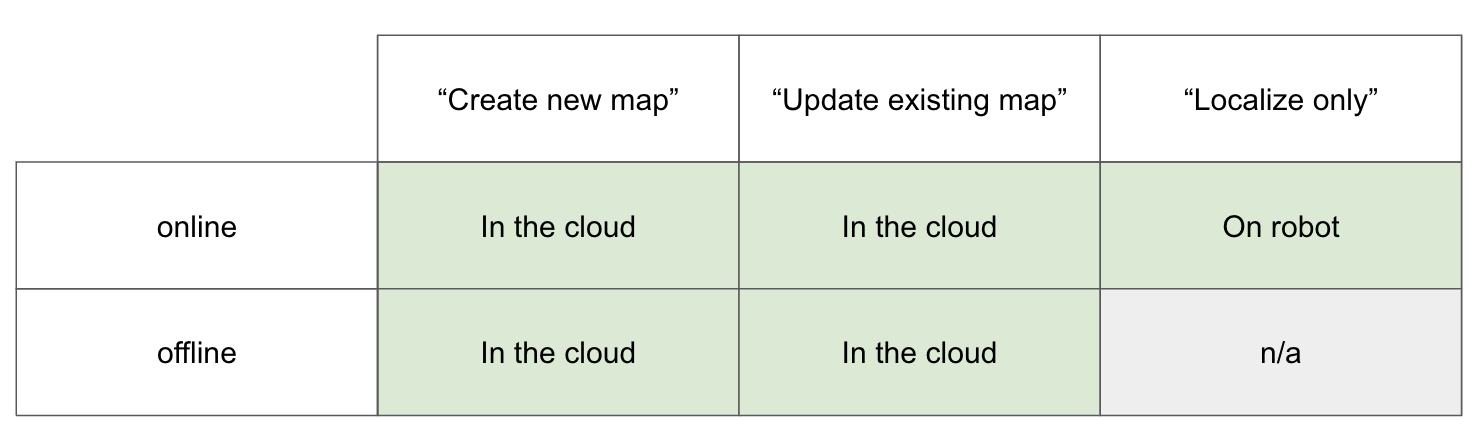
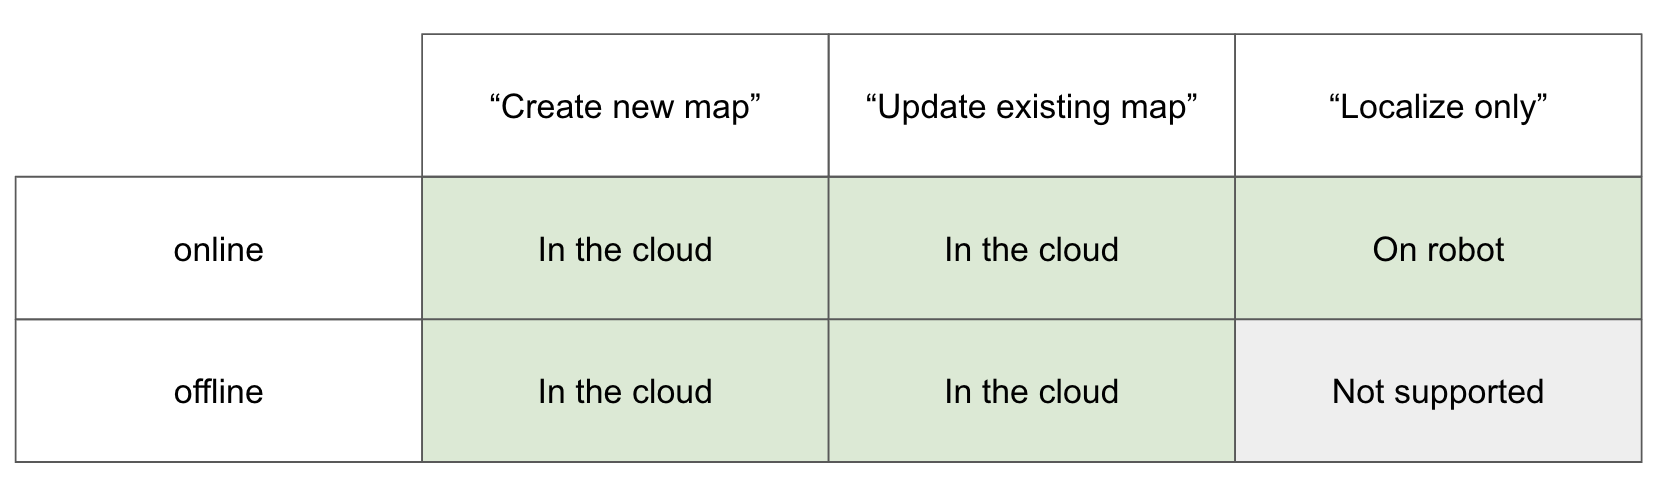
shorten the text

diff --git a/docs/services/slam/cartographer/_index.md b/docs/services/slam/cartographer/_index.md
@@ -11,19 +11,11 @@ aliases:
 # SMEs: Kat, Jeremy, John, Kim, Esha, Tess
 ---
 
-[The Cartographer Project](https://github.com/cartographer-project) is a C++ library that takes as input 2D or 3D LiDAR data, and optionally inertial measurement unit (IMU) data and/or odometry data, from a robot and produces as output a dense SLAM map and the robot's trajectory within the map.
+[The Cartographer Project](https://github.com/cartographer-project) is a C++ library that performs dense SLAM using 2D or 3D LiDAR data and optionally inertial measurement unit (IMU) and/or odometry data.
 
-Viam's `cartographer-module` wraps the Cartographer library as a Viam [modular resource](/extend/modular-resources/). `cartographer-module` is hosted in the [`viam-cartographer`](https://github.com/viamrobotics/viam-cartographer) GitHub repond includes the `viam:slam:cartographer` {{< glossary_tooltip term_id="model-namespace-triplet" text="namespaced">}} custom [model](/extend/modular-resources/key-concepts/#models) of SLAM service. `cartographer-module` currently supports taking 2D LiDAR data and IMU data as inputs; support for taking 3D LiDAR data and odometry data as input may be added in the future. 
+To use Cartographer with Viam, use `cartographer-module` from [`viam-cartographer`](https://github.com/viamrobotics/viam-cartographer), which wraps the Cartographer library as a Viam [modular resource](/extend/modular-resources/).
 
-Since Cartographer's algorithm is CPU-intensive, Viam mainly supports running `cartographer-module` in the cloud (billed according to [Viam's Pricing policy](https://www.viam.com/product/pricing)). In particular:
-
-`cartographer-module` supports being run either "online" or "offline", and in three modes, "Create new map", "Update existing map", and "Localize only."
-
-For "online", all three modes are supported. You configure `cartographer-module` on your robot along with a LiDAR and optionally an IMU. For "Create new map" or "Update existing map" mode, the `cartographer-module` on your robot acts as a stub and the algorithm is actually executed in the cloud. For "Localize only" mode, the `cartographer-module` on your robot  executes the algorithm itself (and you are not billed).
-
-For "offline" mode, only "Create new map" and "Update existing map" modes are supported. You specify a range of LiDAR and optionally IMU data that has been previously captured from a robot using Viam's [`Data Capture`](/services/data/#data-capture) to run through the algorithm, and the algorithm is always executed in the cloud.
-
-In summary:
+Since Cartographer's algorithm is CPU-intensive, Viam mainly supports running `cartographer-module` in the cloud (billed according to [Viam's Pricing policy](https://www.viam.com/product/pricing)). When run in "online" mode, you configure `cartographer-module` on your robot, but if you use "Create new map" or "Update existing map", the `cartographer-module` on your robot acts as a stub and the algorithm is actually executed in the cloud. (If you use "Localize only", the `cartographer-module` on your robot actually executes the algorithm itself.) When run in "offline" mode, you specify a range of data to run through the algorithm, and the algorithm executes in the cloud.
 
 ![cartographer module supported modes](/services/slam/add-cartographer-module-ui-linux.png)
 
